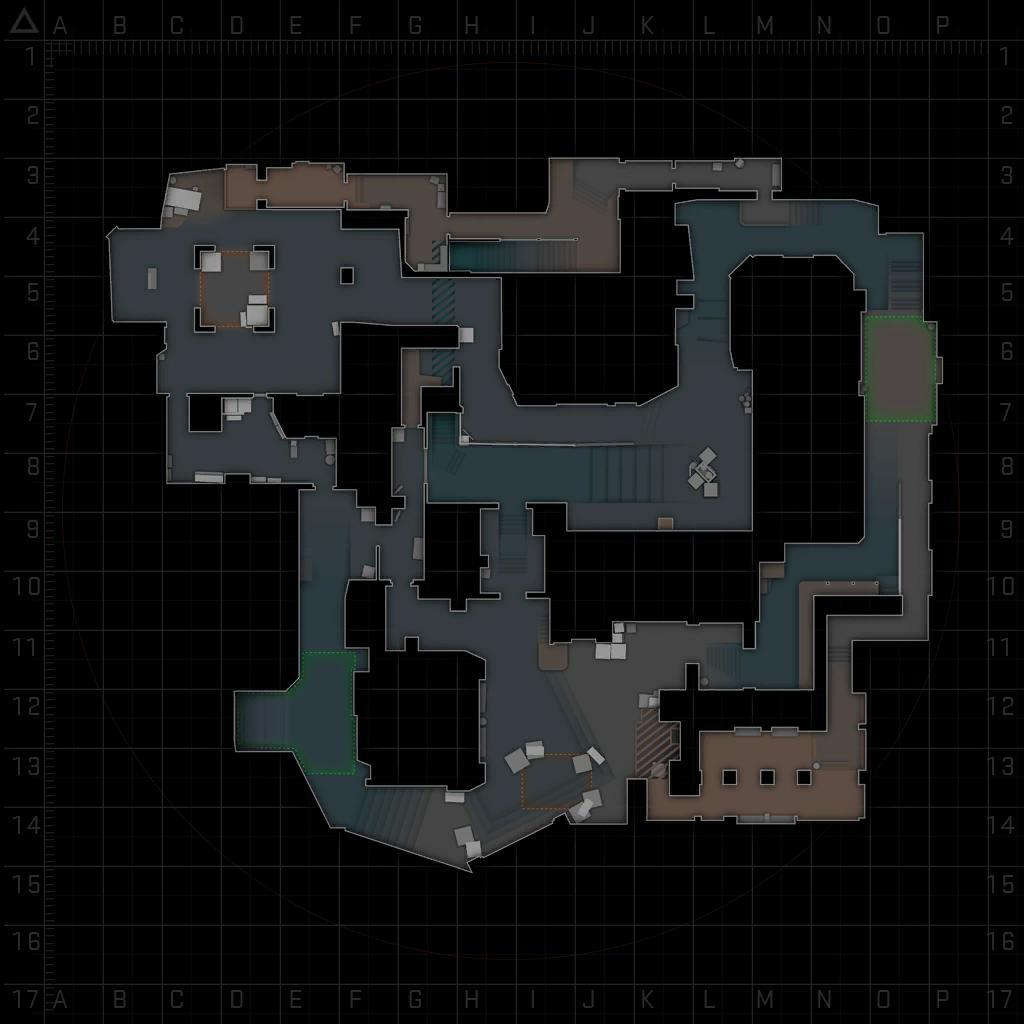
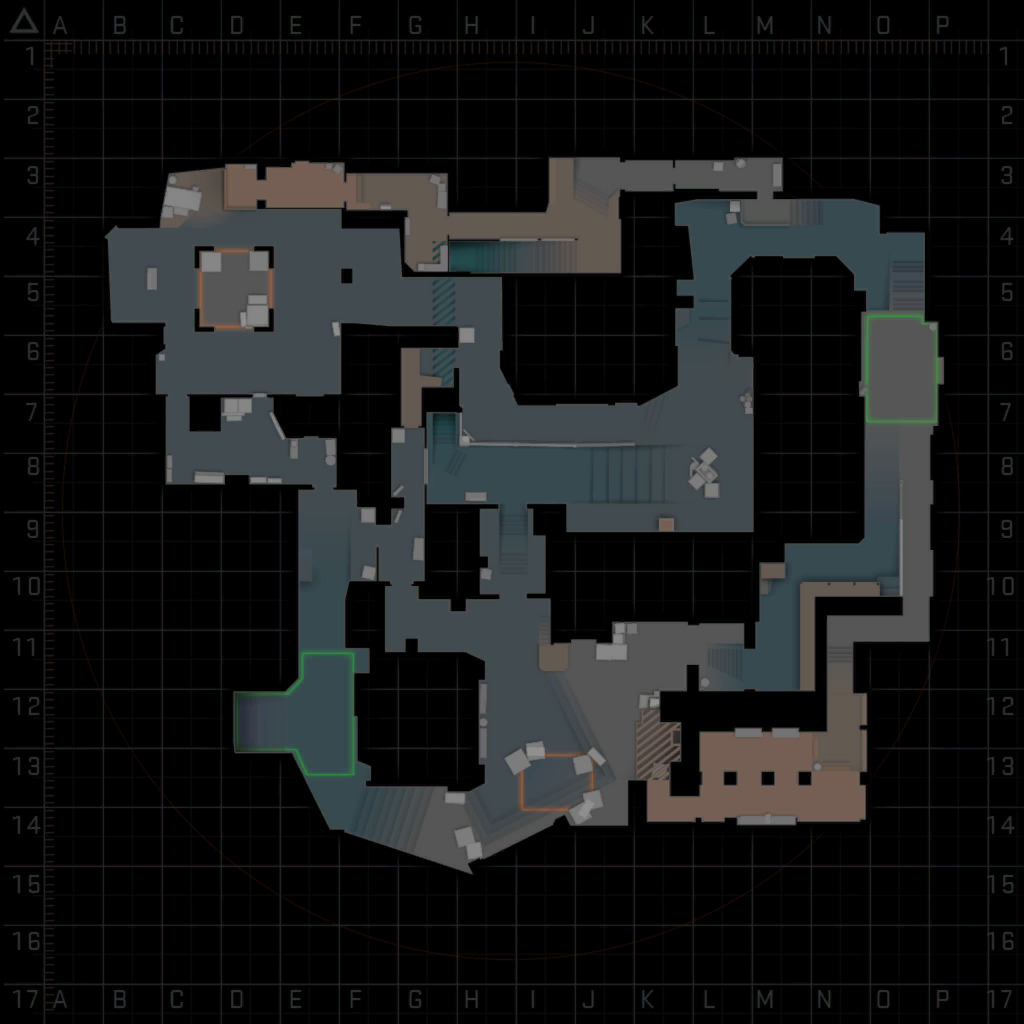
Added new map files

Changed region(s): [[0.1562, 0.1562, 0.9375, 0.875], [0.0938, 0.2188, 0.1562, 0.3125], [0.8125, 0.25, 0.8438, 0.2812]]

diff --git a/csgo/data/map/README.md b/csgo/data/map/README.md
@@ -1,23 +1,1 @@
-Map files are from [@zoidbergwill/csgo-overviews](https://github.com/zoidbergwill/csgo-overviews), issued under the MIT license shown below
-
-> The MIT License (MIT)
->
-> Copyright (c) 2015 William Martin Stewart
->
-> Permission is hereby granted, free of charge, to any person obtaining a copy
-> of this software and associated documentation files (the "Software"), to deal
-> in the Software without restriction, including without limitation the rights
-> to use, copy, modify, merge, publish, distribute, sublicense, and/or sell
-> copies of the Software, and to permit persons to whom the Software is
-> furnished to do so, subject to the following conditions:
->
-> The above copyright notice and this permission notice shall be included in all
-> copies or substantial portions of the Software.
->
-> THE SOFTWARE IS PROVIDED "AS IS", WITHOUT WARRANTY OF ANY KIND, EXPRESS OR
-> IMPLIED, INCLUDING BUT NOT LIMITED TO THE WARRANTIES OF MERCHANTABILITY,
-> FITNESS FOR A PARTICULAR PURPOSE AND NONINFRINGEMENT. IN NO EVENT SHALL THE
-> AUTHORS OR COPYRIGHT HOLDERS BE LIABLE FOR ANY CLAIM, DAMAGES OR OTHER
-> LIABILITY, WHETHER IN AN ACTION OF CONTRACT, TORT OR OTHERWISE, ARISING FROM,
-> OUT OF OR IN CONNECTION WITH THE SOFTWARE OR THE USE OR OTHER DEALINGS IN THE
-> SOFTWARE.
+Map files created from instructions found in [@zoidbergwill/csgo-overviews](https://github.com/zoidbergwill/csgo-overviews).
